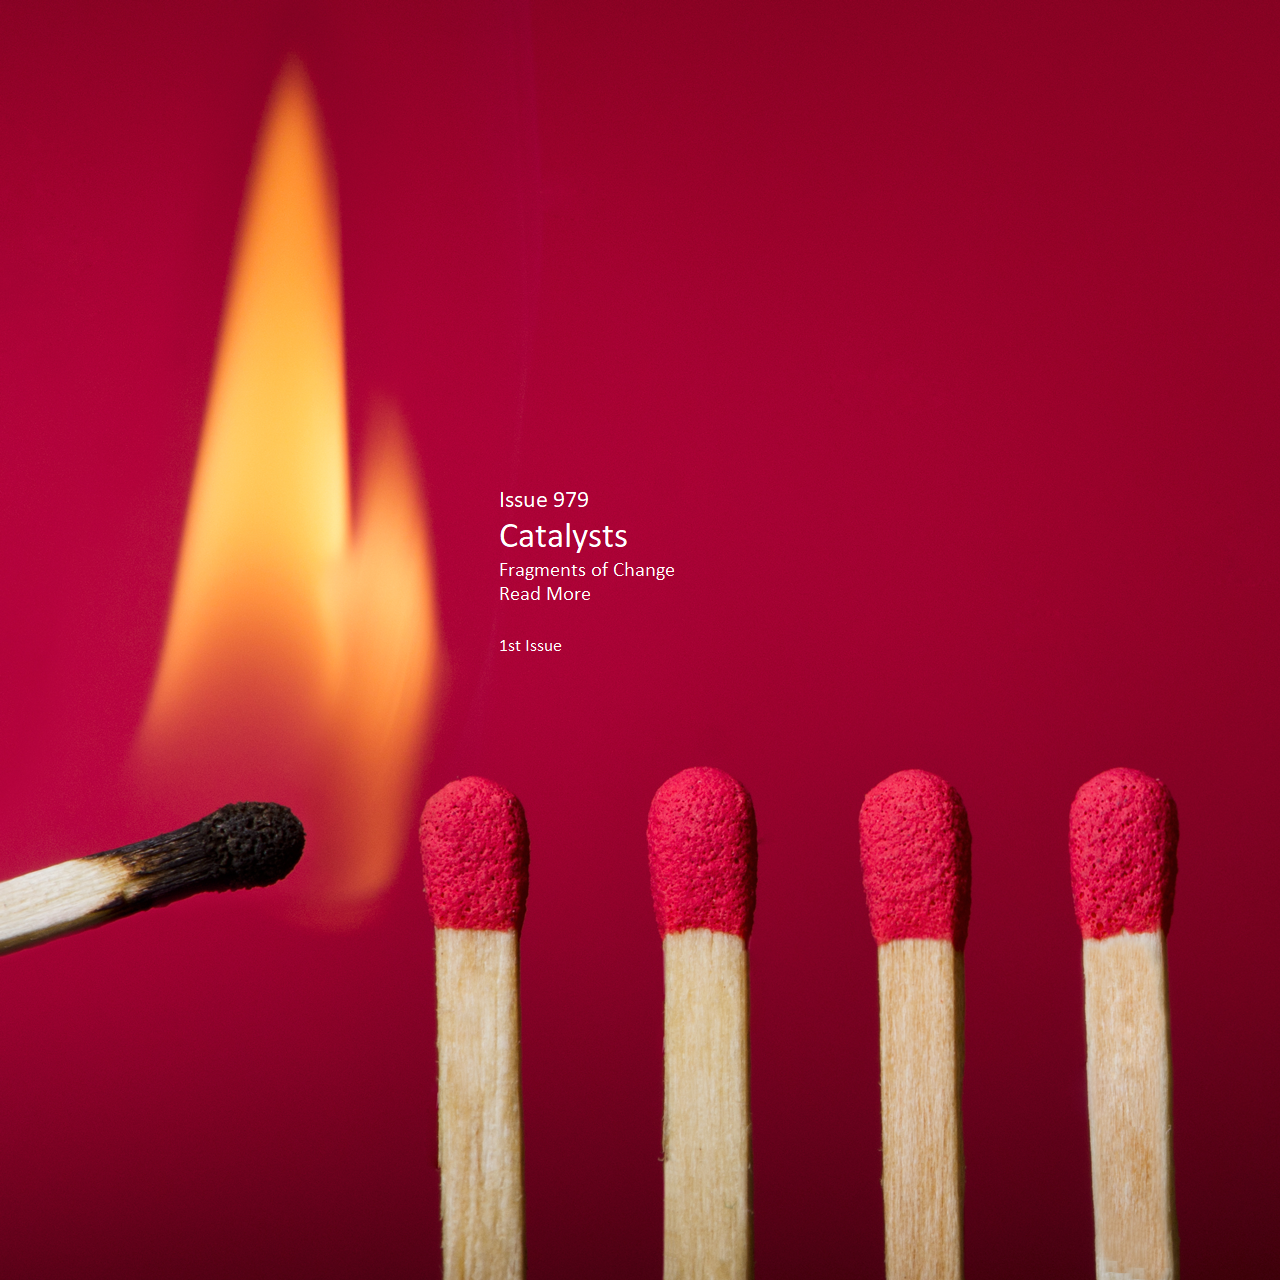
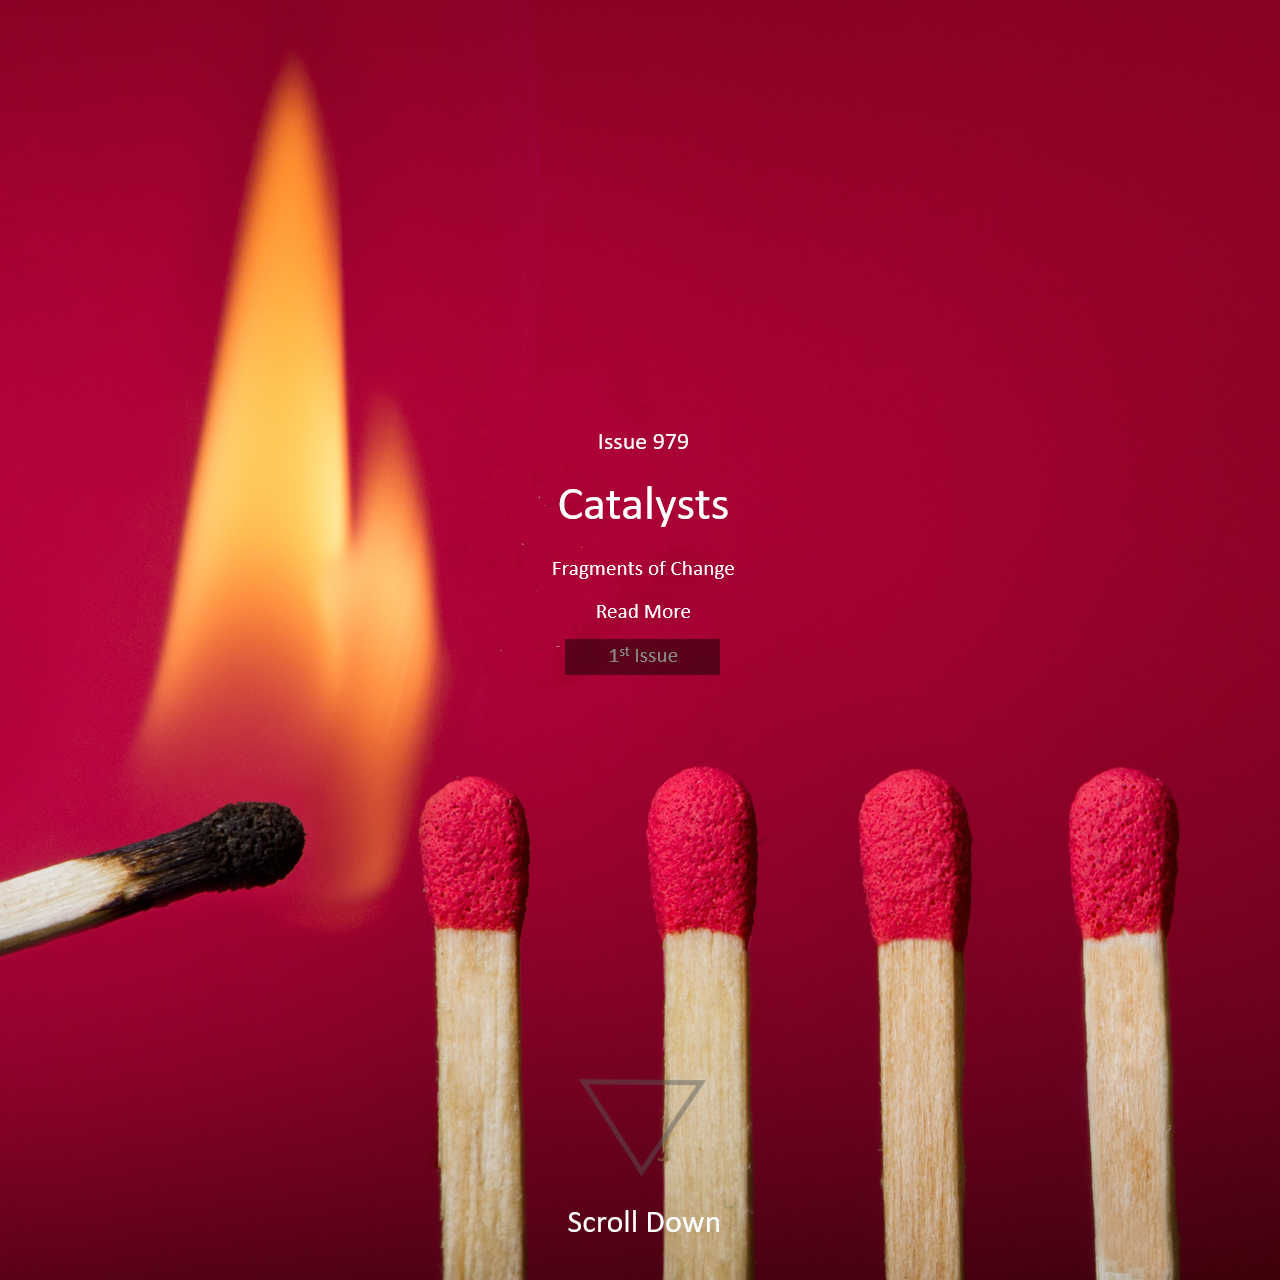
added nautilus lab work

Changed region(s): [[0.375, 0.3438, 0.5625, 0.5312], [0.4375, 0.8438, 0.5625, 0.9062], [0.4375, 0.9375, 0.5625, 0.9688]]

diff --git a/Mod_3/nautilus_mockup-master/index.html b/Mod_3/nautilus_mockup-master/index.html
@@ -7,12 +7,28 @@
     <title>Nautilus Example</title>
 </head>
 <body>
+    <section>
+        <div class="center">
+            <img src="assets/matches.png" alt="matchsticks" />
+        </div>
+    </section>
 <header>
-    <div class="center">
-        <img src="assets/matches.png" alt="matchsticks"/>
-    </div>
+    <nav>
+        <img class="nautilus_logo" src="assets/global/nautilus-logo-sprite@2x.png" alt="nautilus logo" />        
+        <span class="all_caps">issues</span>
+        <span class="all_caps">topics</span>
+        <span class="all_caps">blog</span>
+        <span class="all_caps">newsletter</span>
+        <span class="all_caps">login</span>
+        <span class="all_caps black_background">subscribe</span>  
+    </nav>
 </header>
-<main></main>
+<main>
+    <section>
+    <div class="clover_background"></div>
+        
+    </section>
+</main>
     
 </body>
 </html>

diff --git a/Mod_3/nautilus_mockup-master/style.css b/Mod_3/nautilus_mockup-master/style.css
@@ -10,3 +10,26 @@
 header {
     z-index: 1;
 }
+nav {
+    margin: 1rem;
+    display: flex;
+    justify-content: space-around;
+}
+.nautilus_logo {
+    height: 3rem;
+}
+.all_caps {
+    text-transform: uppercase;
+    margin: 1.5rem auto 0rem;
+}
+.black_background {
+    margin: 0rem auto 0rem;
+    padding: 1rem;
+    background: black;
+    color: white;
+}
+.clover_background {
+    background-image: url("assets/clover_card.jpg");
+    background-attachment: fixed;
+    height: 10rem;
+}
